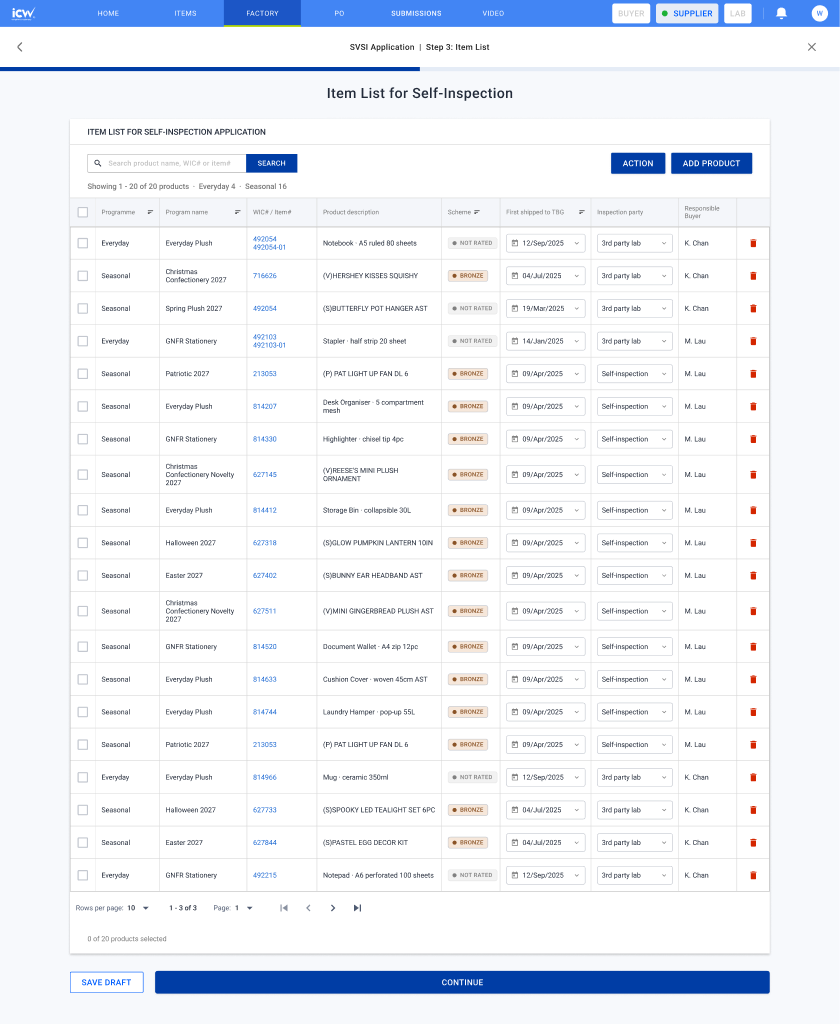
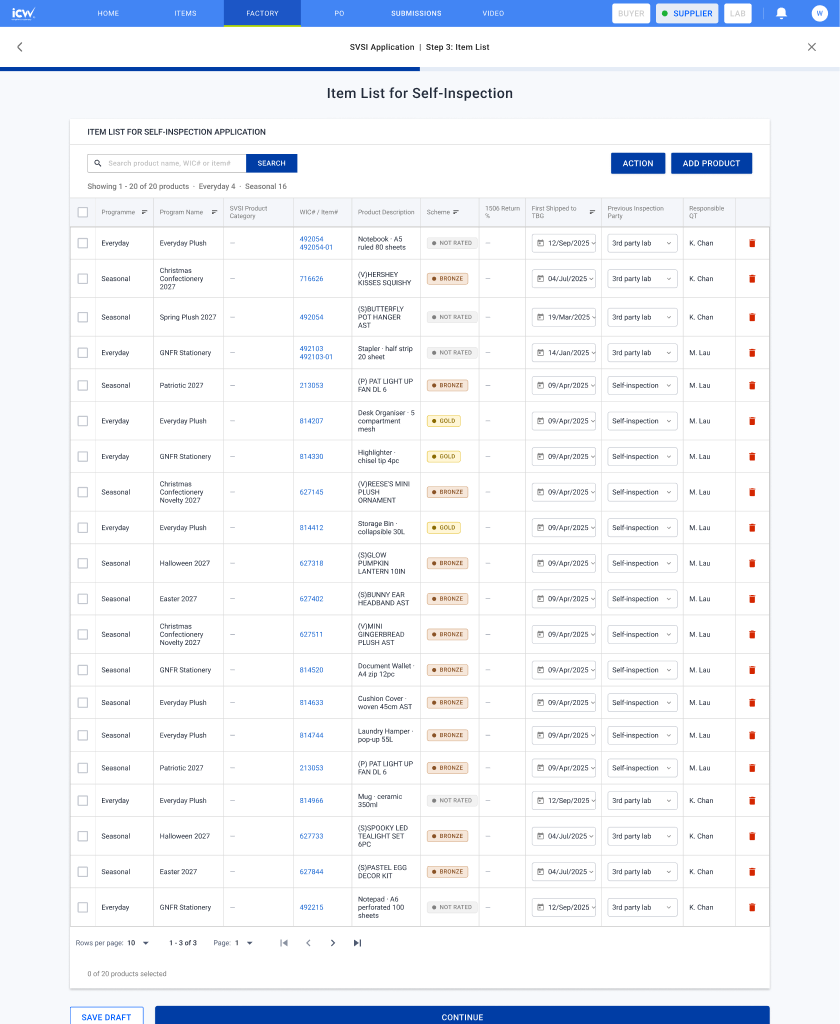
Refresh screens and copy for the October design changes
New screenshots for every card. Copy now covers Previous Inspection Party,
Fail Inspection, the Audit + Inspection result pair, scrolling item tables,
Agreement and Addendum as two PDFs, and the SVSI team choosing which
documents go to the supplier.

diff --git a/index.html b/index.html
@@ -340,7 +340,7 @@ footer{margin-top:44px; padding-top:22px; border-top:1px solid var(--line); colo
       <a class="shot" href="https://www.figma.com/design/aJIs39okLTRsQMwk96NWrC/SVSI?node-id=2534-7740" target="_blank" rel="noopener"><img src="shots/s05_item_list.png" alt="Item list with products added" loading="lazy"></a>
       <div class="body">
         <h3>Item list</h3>
-        <p>Products are added from a dialog. Per row: first shipped date and who inspects, self-inspection or a third-party lab. Several rows can be filled at once with bulk actions.</p>
+        <p>Products are added from a dialog. Per row: first shipped date and the previous inspection party (self-inspection or a third-party lab). SVSI product category and 1506 return % are filled later by QT. Several rows can be filled at once with bulk actions; on a narrow screen the table scrolls sideways.</p>
         <a class="go" href="https://www.figma.com/design/aJIs39okLTRsQMwk96NWrC/SVSI?node-id=2534-7740" target="_blank" rel="noopener">Open in Figma <span class="id">2534:7740</span></a>
       </div>
     </div>
@@ -417,7 +417,7 @@ footer{margin-top:44px; padding-top:22px; border-top:1px solid var(--line); colo
       <div class="actors"><span class="chip lab"><span class="dot"></span>Lab &middot; UL Audit</span></div>
     </div>
   </div>
-  <p class="intro">The lab has its own view with its own lifecycle: <em>Pending Audit &rarr; In Progress &rarr; In Progress - Upload Report &amp; Result &rarr; Audit Completed</em>. They confirm the audit date, run the on-site factory assessment, then upload the report with both an audit result and an inspection result. <strong>Findings are optional</strong>: Major NC, Minor NC and Observation / OFI entries are added only if there are any.</p>
+  <p class="intro">The lab has its own view with its own lifecycle: <em>Pending Audit &rarr; In Progress &rarr; In Progress - Upload Report &amp; Result &rarr; Audit Completed</em>. They confirm the audit date, run the on-site factory assessment, then upload the report with <strong>two results</strong>: an Audit Result and an Inspection Result, each with its own result, audit date and remark. <strong>Findings are optional</strong>: Major NC, Minor NC and Observation / OFI entries are added only if there are any.</p>
   <div class="plays"><span class="pl">Play the prototype</span><a class="play lab" href="https://www.figma.com/proto/aJIs39okLTRsQMwk96NWrC/SVSI?page-id=0%3A1&node-id=291-3947&starting-point-node-id=291%3A3947&scaling=scale-down-width&content-scaling=fixed" target="_blank" rel="noopener"><span class="tri" aria-hidden="true"></span><span class="pk">Lab 1</span>Audit List, filter &amp; sort</a><a class="play lab" href="https://www.figma.com/proto/aJIs39okLTRsQMwk96NWrC/SVSI?page-id=0%3A1&node-id=3012-40666&starting-point-node-id=3012%3A40666&scaling=scale-down-width&content-scaling=fixed" target="_blank" rel="noopener"><span class="tri" aria-hidden="true"></span><span class="pk">Lab 2</span>Confirm audit date → upload result → complete</a><a class="play lab" href="https://www.figma.com/proto/aJIs39okLTRsQMwk96NWrC/SVSI?page-id=0%3A1&node-id=3047-43791&starting-point-node-id=3047%3A43791&scaling=scale-down-width&content-scaling=fixed" target="_blank" rel="noopener"><span class="tri" aria-hidden="true"></span><span class="pk">Lab 3</span>Upload revised report</a></div>
   <div class="frames">
     <div class="frame">
@@ -432,7 +432,7 @@ footer{margin-top:44px; padding-top:22px; border-top:1px solid var(--line); colo
       <a class="shot" href="https://www.figma.com/design/aJIs39okLTRsQMwk96NWrC/SVSI?node-id=1390-4580" target="_blank" rel="noopener"><img src="shots/s10_lab_upload.png" alt="Lab upload result and report, empty state" loading="lazy"></a>
       <div class="body">
         <h3>Upload result &amp; report</h3>
-        <p>Empty state first. Update &amp; Upload stays disabled until a result is chosen. Audit data is entered once, not re-keyed per report.</p>
+        <p>Empty state first. Audit Result and Inspection Result each take a result, audit date and remark. Update &amp; Upload stays disabled until a result is chosen.</p>
         <a class="go" href="https://www.figma.com/design/aJIs39okLTRsQMwk96NWrC/SVSI?node-id=1390-4580" target="_blank" rel="noopener">Open in Figma <span class="id">1390:4580</span></a>
       </div>
     </div>
@@ -461,14 +461,14 @@ footer{margin-top:44px; padding-top:22px; border-top:1px solid var(--line); colo
       <div class="actors"><span class="chip buyer"><span class="dot"></span>QT</span></div>
     </div>
   </div>
-  <p class="intro">QT reads the lab's report and result. If it needs work, QT requests a revised report or rejects the task. Otherwise QT does everything in one pass: <strong>confirms the result</strong> with a remark and the item list, fills the <strong>Agreement and Addendum in one step</strong> (parties, factory, dates and sign information), then <strong>previews</strong> all of it before sending. Three steps in one dialog: Remark and items &rarr; Agreement &amp; Addendum &rarr; Preview. From the preview QT sends the task either straight to the SVSI team or to the ethical team first.</p>
+  <p class="intro">QT reads the lab's report and result. If it needs work, QT requests a revised report or rejects the task. Otherwise QT does everything in one pass: <strong>confirms the result</strong> with a remark and the item list, fills the <strong>Agreement and Addendum in one step</strong> (parties, factory, dates and sign information), then <strong>previews</strong> all of it before sending. The Agreement and the Addendum are generated as <strong>two separate PDFs</strong>. Three steps in one dialog: Remark and items &rarr; Agreement &amp; Addendum &rarr; Preview. From the preview QT sends the task either straight to the SVSI team or to the ethical team first.</p>
   <div class="plays"><span class="pl">Play the prototype</span><a class="play buyer" href="https://www.figma.com/proto/aJIs39okLTRsQMwk96NWrC/SVSI?page-id=0%3A1&node-id=1405-9212&starting-point-node-id=1405%3A9212&scaling=scale-down-width&content-scaling=fixed" target="_blank" rel="noopener"><span class="tri" aria-hidden="true"></span><span class="pk">QT 7</span>Review result → confirm, generate, preview → send</a><a class="play buyer" href="https://www.figma.com/proto/aJIs39okLTRsQMwk96NWrC/SVSI?page-id=0%3A1&node-id=5415-45423&starting-point-node-id=5415%3A45423&scaling=scale-down-width&content-scaling=fixed" target="_blank" rel="noopener"><span class="tri" aria-hidden="true"></span><span class="pk">QT 8</span>Send straight to SVSI (skip ethical)</a></div>
   <div class="frames">
     <div class="frame">
       <a class="shot" href="https://www.figma.com/design/aJIs39okLTRsQMwk96NWrC/SVSI?node-id=4990-22447" target="_blank" rel="noopener"><img src="shots/s11_qt_review.png" alt="Confirm result dialog" loading="lazy"></a>
       <div class="body">
         <h3>Confirm result</h3>
-        <p>Remark, documents and the items for final approval in one dialog. QT fills 1506 return %, first shipped date, inspection party and the SVSI product category for seasonal items.</p>
+        <p>Remark, documents and the items for final approval in one dialog. QT fills 1506 return %, first shipped date, previous inspection party and the SVSI product category for seasonal items, and sees <strong>Fail Inspection</strong> (Yes / No) per item. The table scrolls sideways instead of squeezing columns.</p>
         <a class="go" href="https://www.figma.com/design/aJIs39okLTRsQMwk96NWrC/SVSI?node-id=4990-22447" target="_blank" rel="noopener">Open in Figma <span class="id">4990:22447</span></a>
       </div>
     </div>
@@ -476,7 +476,7 @@ footer{margin-top:44px; padding-top:22px; border-top:1px solid var(--line); colo
       <a class="shot" href="https://www.figma.com/design/aJIs39okLTRsQMwk96NWrC/SVSI?node-id=4990-23021" target="_blank" rel="noopener"><img src="shots/s24_gen_agreement.png" alt="Generate Agreement and Addendum step" loading="lazy"></a>
       <div class="body">
         <h3>Generate Agreement &amp; Addendum</h3>
-        <p>One form for both documents: parties, factory, dates and sign information. TBGASL signatories are fixed; the supplier signatory is filled in.</p>
+        <p>One form for both documents: parties, factory, dates and sign information. TBGASL signatories are fixed. There is no supplier signatory field: the supplier fills in their name and title when they sign offline.</p>
         <a class="go" href="https://www.figma.com/design/aJIs39okLTRsQMwk96NWrC/SVSI?node-id=4990-23021" target="_blank" rel="noopener">Open in Figma <span class="id">4990:23021</span></a>
       </div>
     </div>
@@ -484,7 +484,7 @@ footer{margin-top:44px; padding-top:22px; border-top:1px solid var(--line); colo
       <a class="shot" href="https://www.figma.com/design/aJIs39okLTRsQMwk96NWrC/SVSI?node-id=5415-45423" target="_blank" rel="noopener"><img src="shots/s19_qt_preview.png" alt="QT preview of result, agreement and addendum" loading="lazy"></a>
       <div class="body">
         <h3>Preview, then send</h3>
-        <p>Result and remark, the Addendum product list, the Agreement &amp; Addendum details, and the generated PDF to preview or download. Send to the ethical team, or straight to the SVSI team.</p>
+        <p>Result and remark, the Addendum product list, the Agreement &amp; Addendum details, and the two generated PDFs (Agreement, Addendum) to preview or download. Send to the ethical team, or straight to the SVSI team.</p>
         <a class="go" href="https://www.figma.com/design/aJIs39okLTRsQMwk96NWrC/SVSI?node-id=5415-45423" target="_blank" rel="noopener">Open in Figma <span class="id">5415:45423</span></a>
       </div>
     </div>
@@ -502,6 +502,9 @@ footer{margin-top:44px; padding-top:22px; border-top:1px solid var(--line); colo
     <ul>
       <li><a href="https://www.figma.com/design/aJIs39okLTRsQMwk96NWrC/SVSI?node-id=1405-9212" target="_blank" rel="noopener"><span class="nm">Review lab result</span><span class="id">1405:9212</span></a></li>
       <li><a href="https://www.figma.com/design/aJIs39okLTRsQMwk96NWrC/SVSI?node-id=4990-23021" target="_blank" rel="noopener"><span class="nm">Generate Agreement &amp; Addendum</span><span class="id">4990:23021</span></a></li>
+      <li><a href="https://www.figma.com/design/aJIs39okLTRsQMwk96NWrC/SVSI?node-id=5022-33099" target="_blank" rel="noopener"><span class="nm">Returned by SVSI, scroll table</span><span class="id">5022:33099</span></a></li>
+      <li><a href="https://www.figma.com/design/aJIs39okLTRsQMwk96NWrC/SVSI?node-id=7361-31251" target="_blank" rel="noopener"><span class="nm">Wide screen (1920), full table</span><span class="id">7361:31251</span></a></li>
+      <li><a href="https://www.figma.com/design/aJIs39okLTRsQMwk96NWrC/SVSI?node-id=7356-29010" target="_blank" rel="noopener"><span class="nm">Dev note, item tables scroll</span><span class="id">7356:29010</span></a></li>
       <li><a href="https://www.figma.com/design/aJIs39okLTRsQMwk96NWrC/SVSI?node-id=1448-9588" target="_blank" rel="noopener"><span class="nm">Request revised report</span><span class="id">1448:9588</span></a></li>
       <li><a href="https://www.figma.com/design/aJIs39okLTRsQMwk96NWrC/SVSI?node-id=1448-9626" target="_blank" rel="noopener"><span class="nm">Reject task</span><span class="id">1448:9626</span></a></li>
     </ul>
@@ -565,7 +568,7 @@ footer{margin-top:44px; padding-top:22px; border-top:1px solid var(--line); colo
       <div class="actors"><span class="chip team"><span class="dot"></span>SVSI Team</span></div>
     </div>
   </div>
-  <p class="intro">The SVSI team approves <strong>once</strong>. They see everything QT prepared and can return the task to QT or to the ethical team, or reject it. When they confirm, a preview shows QT's remark, documents, item list, Agreement and Addendum. If something is off, they leave a <strong>comment on the item</strong> (visible to QT only) instead of sending it back; for long lists the comments can be exported to Excel and imported back. Confirming sends the documents to the supplier.</p>
+  <p class="intro">The SVSI team approves <strong>once</strong>. They see everything QT prepared and can return the task to QT or to the ethical team, or reject it. When they confirm, a preview shows QT's remark, documents, item list, Agreement and Addendum. If something is off, they leave a <strong>comment on the item</strong> (visible to QT only) instead of sending it back; for long lists the comments can be exported to Excel and imported back. Before confirming they <strong>tick which documents go to the supplier</strong>: a renewal usually needs the Addendum only, because the Agreement stays valid. With nothing ticked, Confirm is disabled.</p>
   <div class="plays"><span class="pl">Play the prototype</span><a class="play team" href="https://www.figma.com/proto/aJIs39okLTRsQMwk96NWrC/SVSI?page-id=0%3A1&node-id=1603-18989&starting-point-node-id=1603%3A18989&scaling=scale-down-width&content-scaling=fixed" target="_blank" rel="noopener"><span class="tri" aria-hidden="true"></span><span class="pk">SVSI 1</span>SVSI team review → return / reject / confirm</a><a class="play buyer" href="https://www.figma.com/proto/aJIs39okLTRsQMwk96NWrC/SVSI?page-id=0%3A1&node-id=5022-33099&starting-point-node-id=5022%3A33099&scaling=scale-down-width&content-scaling=fixed" target="_blank" rel="noopener"><span class="tri" aria-hidden="true"></span><span class="pk">QT 10</span>Returned by SVSI → fix → resend</a></div>
   <div class="frames">
     <div class="frame">
@@ -580,7 +583,7 @@ footer{margin-top:44px; padding-top:22px; border-top:1px solid var(--line); colo
       <a class="shot" href="https://www.figma.com/design/aJIs39okLTRsQMwk96NWrC/SVSI?node-id=4976-23490" target="_blank" rel="noopener"><img src="shots/s21_svsi_preview.png" alt="SVSI preview with item comments" loading="lazy"></a>
       <div class="body">
         <h3>Preview &amp; comment</h3>
-        <p>Same preview as QT, read-only, with an SVSI comment per item and a place for the SVSI team's own remark and documents.</p>
+        <p>Same preview as QT, read-only, with an SVSI comment per item, a checkbox per document to choose what is sent to the supplier, and a place for the SVSI team's own remark and documents.</p>
         <a class="go" href="https://www.figma.com/design/aJIs39okLTRsQMwk96NWrC/SVSI?node-id=4976-23490" target="_blank" rel="noopener">Open in Figma <span class="id">4976:23490</span></a>
       </div>
     </div>
@@ -599,6 +602,7 @@ footer{margin-top:44px; padding-top:22px; border-top:1px solid var(--line); colo
       <li><a href="https://www.figma.com/design/aJIs39okLTRsQMwk96NWrC/SVSI?node-id=5425-22371" target="_blank" rel="noopener"><span class="nm">Return to QT</span><span class="id">5425:22371</span></a></li>
       <li><a href="https://www.figma.com/design/aJIs39okLTRsQMwk96NWrC/SVSI?node-id=5415-45329" target="_blank" rel="noopener"><span class="nm">Return to ethical team</span><span class="id">5415:45329</span></a></li>
       <li><a href="https://www.figma.com/design/aJIs39okLTRsQMwk96NWrC/SVSI?node-id=1649-20424" target="_blank" rel="noopener"><span class="nm">Reject task</span><span class="id">1649:20424</span></a></li>
+      <li><a href="https://www.figma.com/design/aJIs39okLTRsQMwk96NWrC/SVSI?node-id=7383-30351" target="_blank" rel="noopener"><span class="nm">Nothing ticked, Confirm disabled</span><span class="id">7383:30351</span></a></li>
     </ul>
   </div>
   <div class="morelinks">
@@ -622,7 +626,7 @@ footer{margin-top:44px; padding-top:22px; border-top:1px solid var(--line); colo
       <div class="actors"><span class="chip supplier"><span class="dot"></span>Supplier</span></div>
     </div>
   </div>
-  <p class="intro">The supplier downloads the Agreement and Addendum, signs them offline and uploads the signed copies back into ICW. Choosing a new file replaces the previous one. The task waits at <strong>Pending Sign Off</strong> until the signed copies arrive.</p>
+  <p class="intro">The supplier downloads the documents the SVSI team sent (Agreement and / or Addendum, as two PDFs), signs them offline and uploads the signed copies back into ICW. Choosing a new file replaces the previous one. The task waits at <strong>Pending Sign Off</strong> until the signed copies arrive.</p>
   <div class="plays"><span class="pl">Play the prototype</span><a class="play supplier" href="https://www.figma.com/proto/aJIs39okLTRsQMwk96NWrC/SVSI?page-id=0%3A1&node-id=1656-22338&starting-point-node-id=1656%3A22338&scaling=scale-down-width&content-scaling=fixed" target="_blank" rel="noopener"><span class="tri" aria-hidden="true"></span><span class="pk">Supplier 6</span>Upload signed Agreement &amp; Addendum</a></div>
   <div class="frames">
     <div class="frame">

diff --git a/src/gen.py b/src/gen.py
@@ -81,7 +81,7 @@ S.append(step('s1','01','Application',[('supplier','Supplier applies'),('buyer',
  ['S1','S2','S3','S4','S5','Q6'],
  [('s03_app_part1.png','140:166','Part 1, factory &amp; contact','First-year applicants give the full factory record. Renewals carry most of it forward.','Application part 1, first year'),
   ('s04_self_assess.png','144:165','Self-assessment','The factory declares it meets the entry criteria. A "not met" answer blocks the application there rather than later.','Self-assessment with all criteria met'),
-  ('s05_item_list.png','2534:7740','Item list','Products are added from a dialog. Per row: first shipped date and who inspects, self-inspection or a third-party lab. Several rows can be filled at once with bulk actions.','Item list with products added'),
+  ('s05_item_list.png','2534:7740','Item list','Products are added from a dialog. Per row: first shipped date and the previous inspection party (self-inspection or a third-party lab). SVSI product category and 1506 return % are filled later by QT. Several rows can be filled at once with bulk actions; on a narrow screen the table scrolls sideways.','Item list with products added'),
   ('s06_payer.png','147:162','Payer information','Replaces the <em>Payer Information Form</em> doc. ICW bills the supplier on TBGASL\'s behalf, so this has to be right before the invoice is raised.','Payer information form'),
   ('s07_buyer_check.png','149:162','QT check form','QT reads the whole submission on one page and decides: approve and continue, return, or reject.','QT check form review screen')],
  [('States and variants',[('Item list, nothing added yet','2532:7007'),('Add product dialog','2536:7173'),('Bulk action menu','3331:12973'),('Bulk fill, ship date','3331:13503'),('Bulk fill, inspection party','3331:14033'),('Self-assessment, criteria not met','144:336'),('Preview before submit','2556:24543'),('Application submitted','2556:23682'),('Returned to the supplier for correction','1043:21409'),('Rejected by the SVSI team','1043:21574')])]))
@@ -91,19 +91,19 @@ S.append(step('s2','02','Invoice',[('buyer','QT raises'),('supplier','Supplier p
  [('s08_invoice.png','1189:30008','Invoice, pending payment','Task basic information on top, invoice details and the priced inspection plan below. One factory, one line.','QT invoice screen, pending payment')],
  [('Also in this step',[('Supplier side, invoice paid','403:3910'),('Booking reserved, audit date set','1339:5441'),('Returned to previous stage','1177:28333'),('Application rejected','1177:27905')])]))
 S.append(step('s3','03','Lab Audit',[('lab','Lab &middot; UL Audit')],
- 'The lab has its own view with its own lifecycle: <em>Pending Audit &rarr; In Progress &rarr; In Progress - Upload Report &amp; Result &rarr; Audit Completed</em>. They confirm the audit date, run the on-site factory assessment, then upload the report with both an audit result and an inspection result. <strong>Findings are optional</strong>: Major NC, Minor NC and Observation / OFI entries are added only if there are any.',
+ 'The lab has its own view with its own lifecycle: <em>Pending Audit &rarr; In Progress &rarr; In Progress - Upload Report &amp; Result &rarr; Audit Completed</em>. They confirm the audit date, run the on-site factory assessment, then upload the report with <strong>two results</strong>: an Audit Result and an Inspection Result, each with its own result, audit date and remark. <strong>Findings are optional</strong>: Major NC, Minor NC and Observation / OFI entries are added only if there are any.',
  ['L1','L2','L3'],
  [('s09_lab_detail.png','3012:40666','Lab task detail','The lab\'s working screen for one factory audit task. Actions opens Update Status.','Lab task detail for a factory audit'),
-  ('s10_lab_upload.png','1390:4580','Upload result &amp; report','Empty state first. Update &amp; Upload stays disabled until a result is chosen. Audit data is entered once, not re-keyed per report.','Lab upload result and report, empty state')],
+  ('s10_lab_upload.png','1390:4580','Upload result &amp; report','Empty state first. Audit Result and Inspection Result each take a result, audit date and remark. Update &amp; Upload stays disabled until a result is chosen.','Lab upload result and report, empty state')],
  [('The rest of the lab flow',[('Lab home dashboard','291:3947'),('Audit list','291:2582'),('Audit list, Task Status filter','3697:14554'),('Audit list, sort by date','3706:15161'),('Select update type','291:8393'),('Confirm audit date','376:3134'),('Uploaded, result and findings','376:3970'),('Complete, confirm','376:4611'),('Upload revised report','1455:11943')])]))
 S.append(step('s4','04','QT Review, Documents &amp; Preview',[('buyer','QT')],
- 'QT reads the lab\'s report and result. If it needs work, QT requests a revised report or rejects the task. Otherwise QT does everything in one pass: <strong>confirms the result</strong> with a remark and the item list, fills the <strong>Agreement and Addendum in one step</strong> (parties, factory, dates and sign information), then <strong>previews</strong> all of it before sending. Three steps in one dialog: Remark and items &rarr; Agreement &amp; Addendum &rarr; Preview. From the preview QT sends the task either straight to the SVSI team or to the ethical team first.',
+ 'QT reads the lab\'s report and result. If it needs work, QT requests a revised report or rejects the task. Otherwise QT does everything in one pass: <strong>confirms the result</strong> with a remark and the item list, fills the <strong>Agreement and Addendum in one step</strong> (parties, factory, dates and sign information), then <strong>previews</strong> all of it before sending. The Agreement and the Addendum are generated as <strong>two separate PDFs</strong>. Three steps in one dialog: Remark and items &rarr; Agreement &amp; Addendum &rarr; Preview. From the preview QT sends the task either straight to the SVSI team or to the ethical team first.',
  ['Q7','Q8'],
- [('s11_qt_review.png','4990:22447','Confirm result','Remark, documents and the items for final approval in one dialog. QT fills 1506 return %, first shipped date, inspection party and the SVSI product category for seasonal items.','Confirm result dialog'),
-  ('s24_gen_agreement.png','4990:23021','Generate Agreement &amp; Addendum','One form for both documents: parties, factory, dates and sign information. TBGASL signatories are fixed; the supplier signatory is filled in.','Generate Agreement and Addendum step'),
-  ('s19_qt_preview.png','5415:45423','Preview, then send','Result and remark, the Addendum product list, the Agreement &amp; Addendum details, and the generated PDF to preview or download. Send to the ethical team, or straight to the SVSI team.','QT preview of result, agreement and addendum'),
+ [('s11_qt_review.png','4990:22447','Confirm result','Remark, documents and the items for final approval in one dialog. QT fills 1506 return %, first shipped date, previous inspection party and the SVSI product category for seasonal items, and sees <strong>Fail Inspection</strong> (Yes / No) per item. The table scrolls sideways instead of squeezing columns.','Confirm result dialog'),
+  ('s24_gen_agreement.png','4990:23021','Generate Agreement &amp; Addendum','One form for both documents: parties, factory, dates and sign information. TBGASL signatories are fixed. There is no supplier signatory field: the supplier fills in their name and title when they sign offline.','Generate Agreement and Addendum step'),
+  ('s19_qt_preview.png','5415:45423','Preview, then send','Result and remark, the Addendum product list, the Agreement &amp; Addendum details, and the two generated PDFs (Agreement, Addendum) to preview or download. Send to the ethical team, or straight to the SVSI team.','QT preview of result, agreement and addendum'),
   ('s25_qt_import.png','5453:23476','Export &amp; import item data','For long item lists, QT exports the table to Excel, fills SVSI product category, 1506 return %, first shipped to TBG, inspection party and QT comment offline, then imports it back. The file can\'t have more items than the list; if it does, an error alert blocks the import.','Import item data dialog, file ready')],
- [('Steps and other decisions',[('Review lab result','1405:9212'),('Generate Agreement &amp; Addendum','4990:23021'),('Request revised report','1448:9588'),('Reject task','1448:9626')]),
+ [('Steps and other decisions',[('Review lab result','1405:9212'),('Generate Agreement &amp; Addendum','4990:23021'),('Returned by SVSI, scroll table','5022:33099'),('Wide screen (1920), full table','7361:31251'),('Dev note, item tables scroll','7356:29010'),('Request revised report','1448:9588'),('Reject task','1448:9626')]),
   ('Export &amp; import',[('Item list exported (toast)','5453:22001'),('Import, choose file','5453:22717'),('Import, file ready','5453:23476'),('Import, too many items','5453:24225'),('Item list imported','5453:24976')])]))
 S.append(step('s5','05','Ethical Check (optional)',[('buyer','QT decides'),('team','Ethical team reviews')],
  'The ethical check is now optional. QT can skip it and send straight to the SVSI team; while the SVSI team is reviewing, QT can still <strong>send the task to the ethical team</strong>. If it goes to the ethical team first, they enter the score, score date, remark and documents, reconfirm, and the task moves on to the SVSI team.',
@@ -112,15 +112,15 @@ S.append(step('s5','05','Ethical Check (optional)',[('buyer','QT decides'),('tea
   ('s20_sent_ethical.png','4976:23042','Sent to the ethical team first','Status Result Review (Ethical) until the ethical team submits.','Task sent to the ethical team')],
  [('Ethical team screens',[('Ethical review, empty','3028:11319'),('Score date picker','4950:21039'),('Ethical review, filled','2028:8302'),('Reconfirm before submitting','3785:22004')])]))
 S.append(step('s6','06','SVSI Team Review',[('team','SVSI Team')],
- 'The SVSI team approves <strong>once</strong>. They see everything QT prepared and can return the task to QT or to the ethical team, or reject it. When they confirm, a preview shows QT\'s remark, documents, item list, Agreement and Addendum. If something is off, they leave a <strong>comment on the item</strong> (visible to QT only) instead of sending it back; for long lists the comments can be exported to Excel and imported back. Confirming sends the documents to the supplier.',
+ 'The SVSI team approves <strong>once</strong>. They see everything QT prepared and can return the task to QT or to the ethical team, or reject it. When they confirm, a preview shows QT\'s remark, documents, item list, Agreement and Addendum. If something is off, they leave a <strong>comment on the item</strong> (visible to QT only) instead of sending it back; for long lists the comments can be exported to Excel and imported back. Before confirming they <strong>tick which documents go to the supplier</strong>: a renewal usually needs the Addendum only, because the Agreement stays valid. With nothing ticked, Confirm is disabled.',
  ['T1','Q10'],
  [('s13_svsi_review.png','1603:18989','Result review','Reject task, return to QT, return to ethical team, or open the preview to confirm.','SVSI team review screen'),
-  ('s21_svsi_preview.png','4976:23490','Preview &amp; comment','Same preview as QT, read-only, with an SVSI comment per item and a place for the SVSI team\'s own remark and documents.','SVSI preview with item comments'),
+  ('s21_svsi_preview.png','4976:23490','Preview &amp; comment','Same preview as QT, read-only, with an SVSI comment per item, a checkbox per document to choose what is sent to the supplier, and a place for the SVSI team\'s own remark and documents.','SVSI preview with item comments'),
   ('s26_svsi_import.png','5461:25722','Export &amp; import comments','Same Export / Import pop-up as QT, but only SVSI Comment is imported; changes to any other column are ignored by the backend. Same rule on row count.','SVSI import dialog, too many items')],
- [('Decisions',[('Return to QT','5425:22371'),('Return to ethical team','5415:45329'),('Reject task','1649:20424')]),
+ [('Decisions',[('Return to QT','5425:22371'),('Return to ethical team','5415:45329'),('Reject task','1649:20424'),('Nothing ticked, Confirm disabled','7383:30351')]),
   ('Export &amp; import',[('Item list exported (toast)','5461:23686'),('Import, choose file','5461:24347'),('Import, file ready','5461:25033'),('Import, too many items','5461:25722'),('Comments imported','5461:26416'),('Dev note','5457:23692')])]))
 S.append(step('s7','07','Supplier Signs',[('supplier','Supplier')],
- 'The supplier downloads the Agreement and Addendum, signs them offline and uploads the signed copies back into ICW. Choosing a new file replaces the previous one. The task waits at <strong>Pending Sign Off</strong> until the signed copies arrive.',
+ 'The supplier downloads the documents the SVSI team sent (Agreement and / or Addendum, as two PDFs), signs them offline and uploads the signed copies back into ICW. Choosing a new file replaces the previous one. The task waits at <strong>Pending Sign Off</strong> until the signed copies arrive.',
  ['S6'],
  [('s17_supplier_sign.png','1656:22338','Pending sign off','Sent automatically when the SVSI team confirms. Upload opens the signed-copy dialog.','Supplier task page with documents to sign')],
  [('The signing route',[('Upload signed Agreement &amp; Addendum','3692:16071'),('Signed copies submitted','3692:16294')])]))
